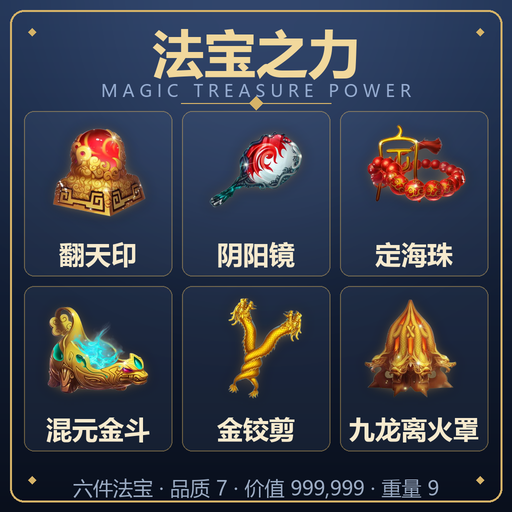
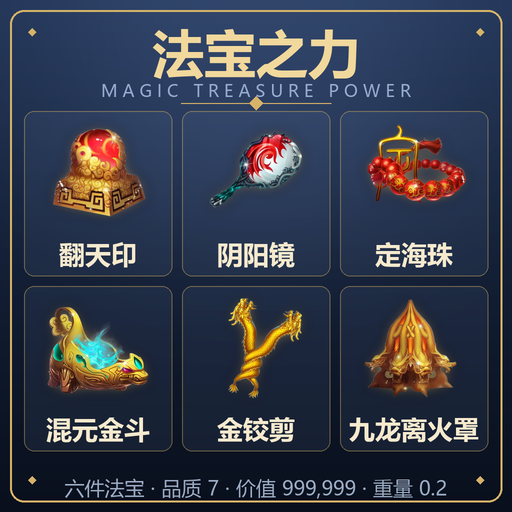
balance: 六件法宝重量从 9 下调为 0.2
- src/Treasures/TreasureCatalog.cs：Weight 由 9f 改为 0.2f。法宝能力强度较高，
  但重量占比过大会迫使玩家为了携带法宝牺牲大量负重，故统一降至 0.2。
- info.ini：物品信息文案更新为「重量 0.2」，版本号升至 0.1.7。
- README.md / CHANGELOG.md：同步重量与版本说明。
- tools/make_preview.py + preview.png：预览图底部参数行改为「重量 0.2」并重新生成。

Changed region(s): [[0.125, 0.9375, 0.875, 0.9688]]

diff --git a/src/Treasures/TreasureCatalog.cs b/src/Treasures/TreasureCatalog.cs
@@ -10,7 +10,8 @@ namespace MagicTreasurePower.Treasures
     ///   dhz  = 定海珠        hyjd = 混元金斗
     ///   jjj  = 金蛟剪        jllhz= 九龙离火罩
     ///
-    /// 当前数值（重量 9 / 价值 999999 / 品质 7）由用户 2026-10-20 指定，后续可调整；
+    /// 当前数值（重量 0.2 / 价值 999999 / 品质 7）：重量 0.2 由用户 2026-10-24 指定，
+    /// 其余数值由用户 2026-10-20 指定，后续可调整；
     /// 调整这些数值不影响存档（ID 不变即可），但**不要改 TypeId**。
     /// </summary>
     internal static class TreasureCatalog
@@ -37,7 +38,7 @@ namespace MagicTreasurePower.Treasures
                 Description = "广成子镇洞之宝。祭出时迎风而长，如山岳倾压，寻常血肉之躯难挡一击。",
                 EffectText = "射击时，有 20% 概率不消耗弹药，并额外射出 3 发子弹（每发造成 100% 伤害）。",
                 ResourceName = "fty.png",
-                Weight = 9f,
+                Weight = 0.2f,
                 Value = 999999,
                 Quality = 7,
                 DisplayQuality = DisplayQuality.Q7,
@@ -51,7 +52,7 @@ namespace MagicTreasurePower.Treasures
                 Description = "赤精子之宝。镜分阴阳两面，白光照生、黑光定死，照定魂魄便由持镜人做主。",
                 EffectText = "常驻减伤：最终承受的伤害降低 20%（乘算，即结算完成后 ×0.8），且每次受到的伤害最低为 1 点。",
                 ResourceName = "yyj.png",
-                Weight = 9f,
+                Weight = 0.2f,
                 Value = 999999,
                 Quality = 7,
                 DisplayQuality = DisplayQuality.Q7,
@@ -65,7 +66,7 @@ namespace MagicTreasurePower.Treasures
                 Description = "赵公明之宝，共二十四颗。祭起时碧海翻涛，宝珠化作流光，专打顶上三花。",
                 EffectText = "受到伤害时，有 20% 概率免疫本次伤害。每场战局中，受到致命伤害时可免疫死亡 3 次：生命值锁定为 1 点，持续 5 秒，触发时清除自身全部异常状态，护体期间免疫异常状态；换图后重新可用。",
                 ResourceName = "dhz.png",
-                Weight = 9f,
+                Weight = 0.2f,
                 Value = 999999,
                 Quality = 7,
                 DisplayQuality = DisplayQuality.Q7,
@@ -79,7 +80,7 @@ namespace MagicTreasurePower.Treasures
                 Description = "三霄娘娘之宝。金光一落，仙凡皆收，任你道行高深也难脱斗中之厄。",
                 EffectText = "射击时，有 30% 概率，命中后额外造成「枪械基础伤害 × 1.5」的真实伤害：在本次伤害结算完成后单独生效，不受护甲、元素抗性、暴击与距离衰减影响。",
                 ResourceName = "hyjd.png",
-                Weight = 9f,
+                Weight = 0.2f,
                 Value = 999999,
                 Quality = 7,
                 DisplayQuality = DisplayQuality.Q7,
@@ -93,7 +94,7 @@ namespace MagicTreasurePower.Treasures
                 Description = "金蛟化剪，双龙交剪。祭在空中只一剪，利可分金断玉、剪断法宝灵光。",
                 EffectText = "每次射击有 30% 概率触发；命中敌人时：若自身带有异常状态则随机移除其中一种的一层，否则获得一个随机增益（持续 8 秒）；不同增益可同时存在，重复获得同一增益时持续时间累加。",
                 ResourceName = "jjj.png",
-                Weight = 9f,
+                Weight = 0.2f,
                 Value = 999999,
                 Quality = 7,
                 DisplayQuality = DisplayQuality.Q7,
@@ -107,7 +108,7 @@ namespace MagicTreasurePower.Treasures
                 Description = "九条火龙盘旋而成。罩落之处烈焰焚天，任你腾挪变化也难逃火网。",
                 EffectText = "装备时：身体与头部护甲 +5，火、毒、电、空间、幽灵、冰六种元素抗性各 +20%，背包容量 +20 格。",
                 ResourceName = "jllhz.png",
-                Weight = 9f,
+                Weight = 0.2f,
                 Value = 999999,
                 Quality = 7,
                 DisplayQuality = DisplayQuality.Q7,

diff --git a/tools/make_preview.py b/tools/make_preview.py
@@ -184,7 +184,7 @@ def main() -> None:
     foot_font = font(20 * S, bold=False)
     draw.text(
         (W // 2, H - 76),
-        "六件法宝 · 品质 7 · 价值 999,999 · 重量 9",
+        "六件法宝 · 品质 7 · 价值 999,999 · 重量 0.2",
         font=foot_font,
         fill=FOOT_COLOR + (255,),
         anchor="ma",

diff --git a/README.md b/README.md
@@ -2,7 +2,7 @@
 
 [![游戏](https://img.shields.io/badge/游戏-Escape%20from%20Duckov-blue)](https://store.steampowered.com/app/3167020/)
 [![协议](https://img.shields.io/badge/协议-MIT-yellow)](LICENSE)
-[![版本](https://img.shields.io/badge/版本-0.1.1-brightgreen)](CHANGELOG.md)
+[![版本](https://img.shields.io/badge/版本-0.1.7-brightgreen)](CHANGELOG.md)
 
 > 为逃离鸭科夫新增「法宝」类物品：六件封神法宝、专属槽位、等级成长与七条法宝任务链。
 
@@ -12,7 +12,7 @@
 | 框架 | `Duckov.Modding.ModBehaviour` |
 | 前置 | HarmonyLib（工坊 `3589088839`），必须置于本 mod **之前**加载 |
 | 创意工坊 | 3823237404 |
-| 当前版本 | 0.1.1 |
+| 当前版本 | 0.1.7 |
 | 开源协议 | [MIT](LICENSE) |
 
 ## 安装
@@ -24,7 +24,7 @@
 
 《逃离鸭科夫》自有 mod：新增「法宝」类物品及其专属能力。
 
-> 当前状态：**首批六件法宝已注册**（名称、图标、简介）；品质 **7**、基础价值 **999,999**、重量 **9**；标签为自建「法宝」+ 原版「Luxury（奢侈品）」，专属能力尚待设计。
+> 当前状态：**首批六件法宝已注册**（名称、图标、简介）；品质 **7**、基础价值 **999,999**、重量 **0.2**；标签为自建「法宝」+ 原版「Luxury（奢侈品）」，专属能力尚待设计。
 
 ## 法宝一览
 
@@ -231,7 +231,7 @@ preview.png     （存在时）
 - [ ] 确定每件法宝的专属能力（Harmony 补丁或游戏事件）。
 - [x] 品质 7（`quality` + `displayQuality = Q7`）、基础价值 999,999。
 - [x] 标签：自建「法宝」（`MagicTreasure`，金色、显示在标签栏）+ 原版 `Luxury`。
-- [x] 重量统一为 9。
+- [x] 重量统一为 0.2。
 - [ ] 多语言文本（目前名称为中文直接覆盖；需要时补 `language/*.txt`）。
 - [x] `preview.png`：六件法宝展示图（`tools/make_preview.py` 生成）。
 

diff --git a/CHANGELOG.md b/CHANGELOG.md
@@ -2,6 +2,14 @@
 
 本项目遵循 [语义化版本](https://semver.org/lang/zh-CN/) 与 [Keep a Changelog](https://keepachangelog.com/zh-CN/1.1.0/) 格式。
 
+## [0.1.7] - 2026-10-24
+
+### 平衡调整
+
+- **六件法宝重量从 9 下调为 0.2**（`TreasureCatalog.cs` 的 `Weight`）。法宝本身提供强度较高的能力，
+  重量占比过高会让玩家为了带法宝牺牲太多负重，统一降至 0.2。
+- 同步更新 `info.ini` 的物品信息文案与 `README.md` 的数值说明。
+
 ## [0.1.6] - 2026-10-24
 
 ### 修正
